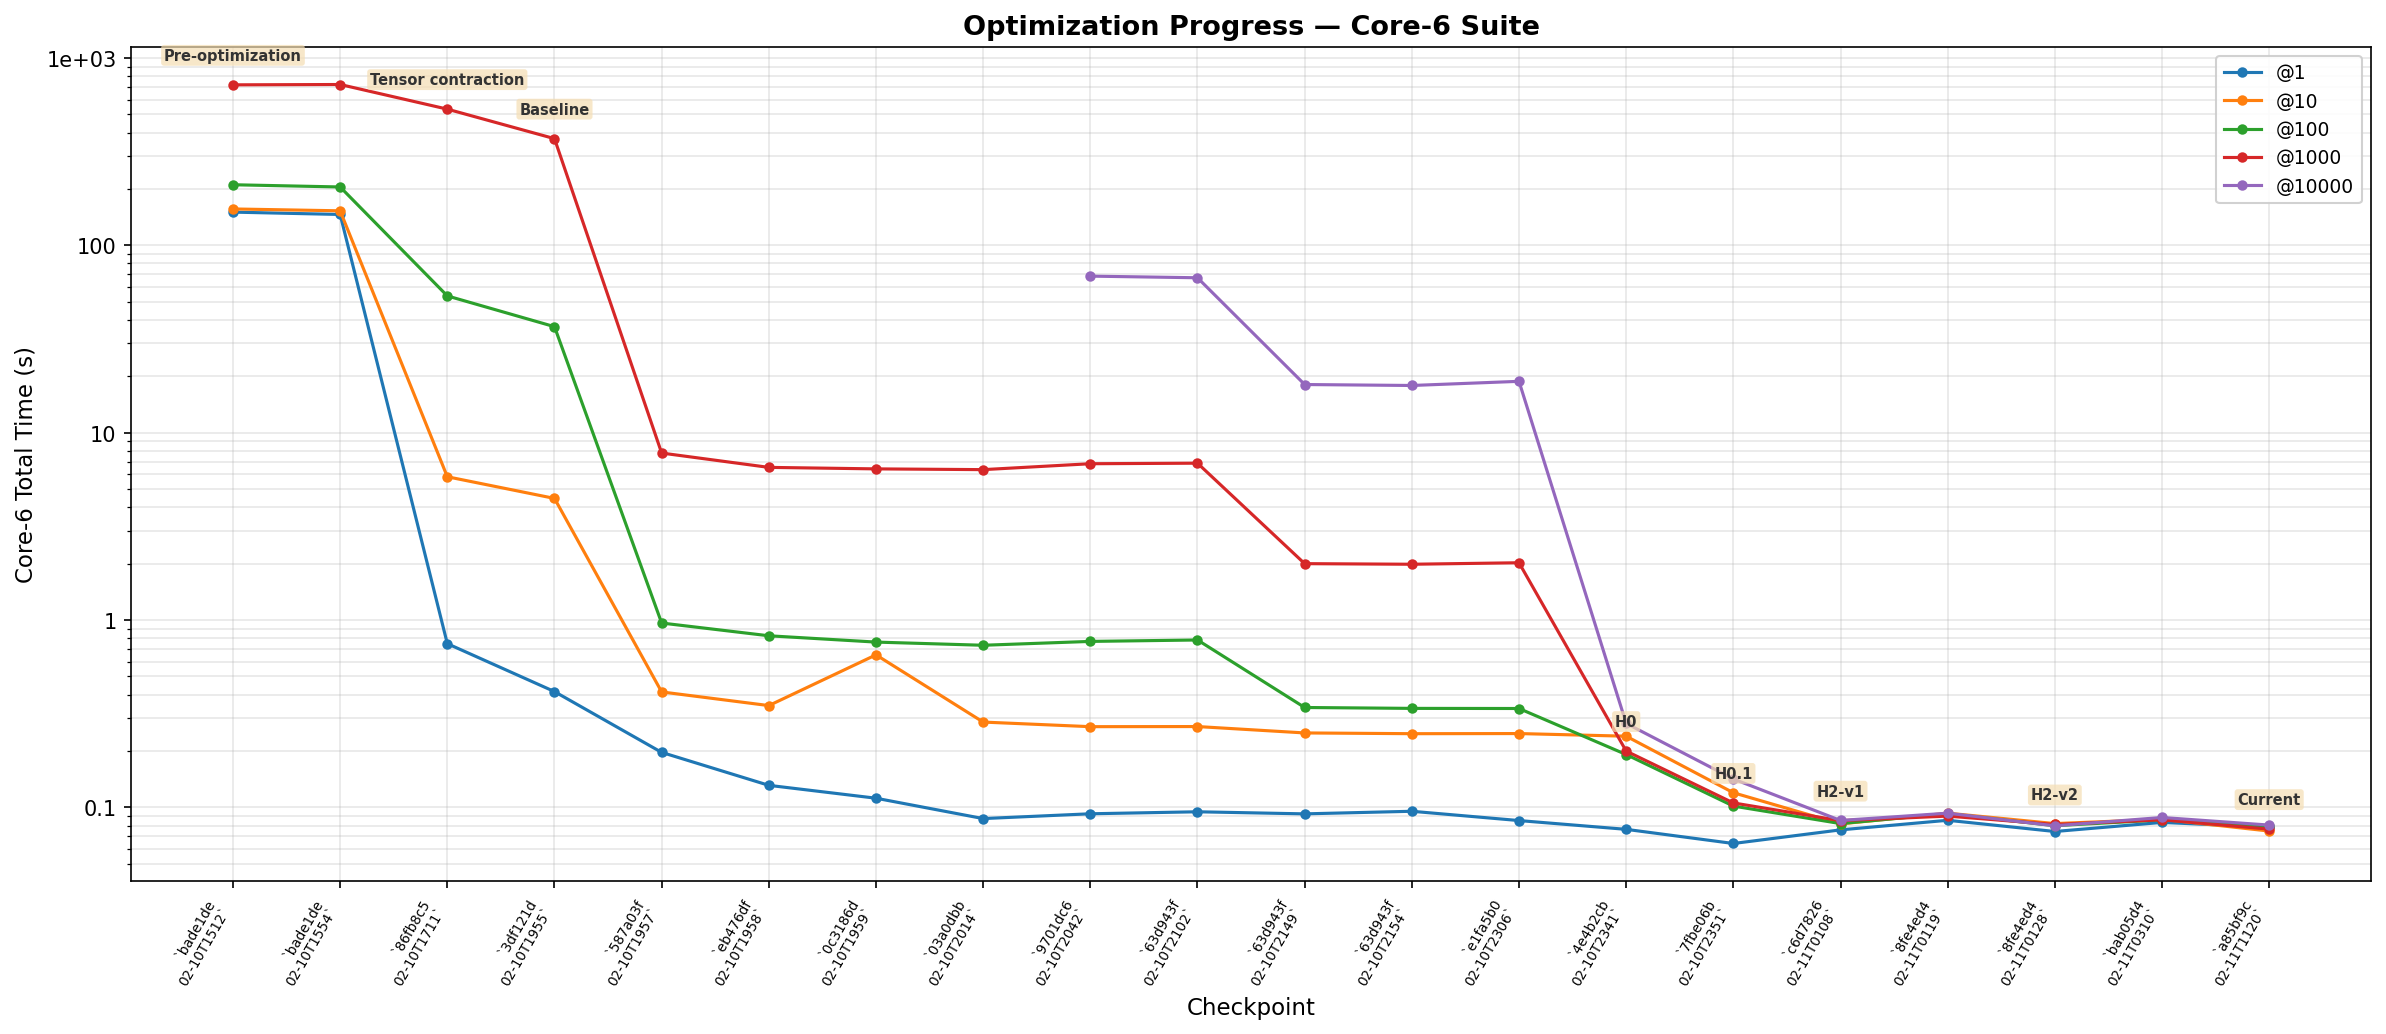
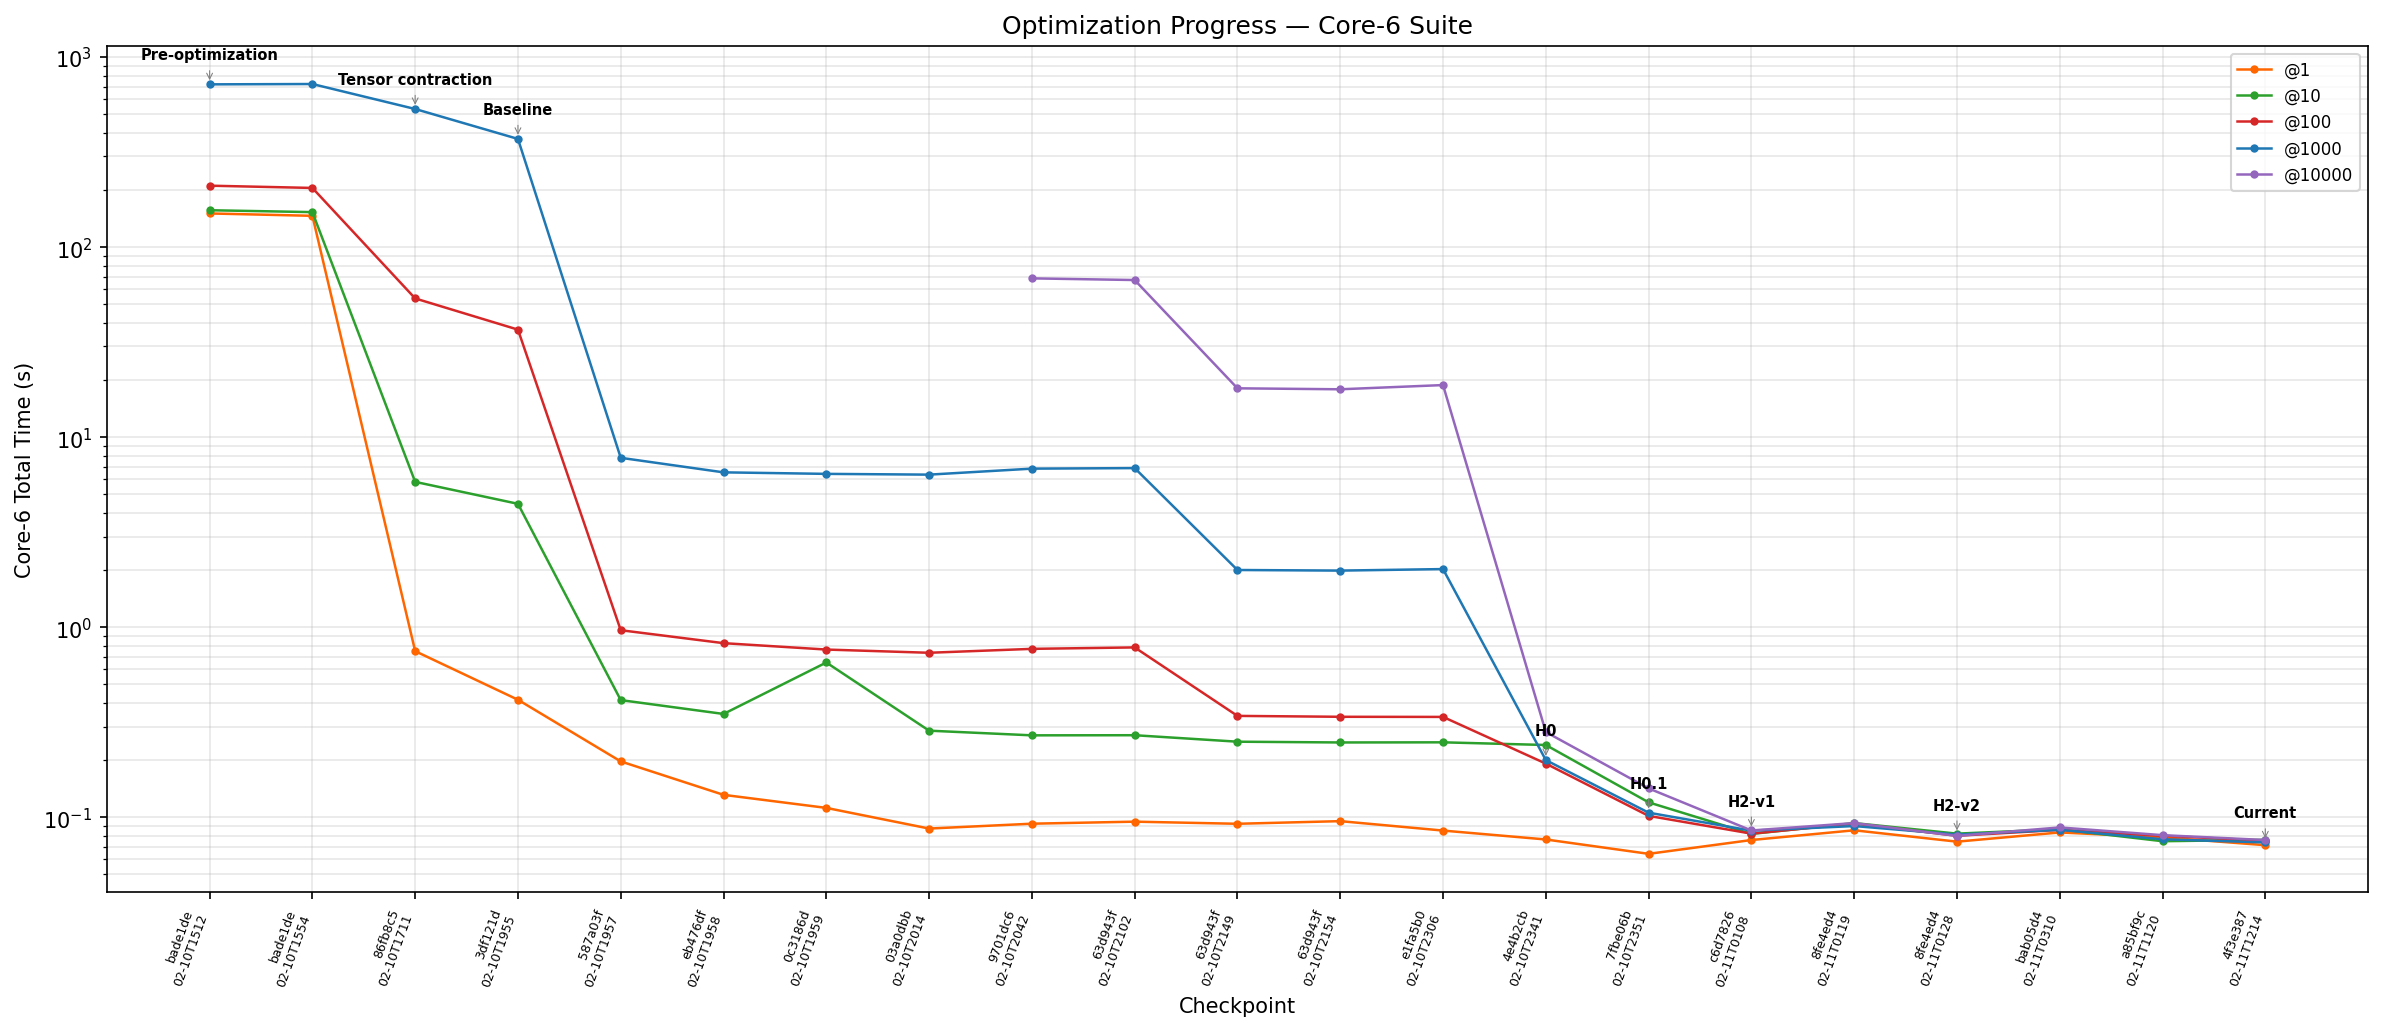
Record idx 20: stride-based dense gate paths with CPU scalar dispatch
Core-6 @1000: 0.077→0.074s (4%), @10000: 0.081→0.076s (6%).
Full static suite @10000: 0.92→0.76s (17%).
random_universal_14: 2.4x faster from eliminating MPS transfers.

diff --git a/docs/experiment-log.md b/docs/experiment-log.md
@@ -28,3 +28,4 @@ Machine: Apple M1 Max, 32 GB. Backend: PyTorch MPS.
 | F2 | (reverted) | Forced static circuits through branch engine (disabled terminal-sampling fast path). Regressed: median 1.54x slower across 18 static cases @10k. | — | Did not work |
 | 18 | `bab05d4` | Compiled edge/node dynamic graph executor. Unified static/dynamic into one graph format (static = zero-node graph). | 0.086s / 0.088s @10k | Worked (architecture) |
 | 19 | `a85bf9c` | Replaced permute/matmul dense gate path with `tensordot` contraction. Cleaner code, perf-neutral. `einsum` also tested — slower on MPS, crashes at 15q+. | 0.077s / 0.081s @10k | Worked (simplification) |
+| 20 | `4f3e387` | Stride-based slicing for 1q+2q dense gates with CPU scalar dispatch. Eliminates tensordot permutation copies (77% of CPU time) and per-gate MPS transfers (~450μs each). `random_universal_14` 2.4x faster. | 0.074s / 0.076s @10k | Worked (1.04x / 1.06x core-6; 2.4x on parameterized circuits) |

diff --git a/docs/progress-data.md b/docs/progress-data.md
@@ -43,7 +43,8 @@ Data source files are in `benchmarks/results/` and are listed below in plotting 
 | 16 | `2026-02-11T011947.jsonl` | `8fe4ed4` | `8fe4ed4\n02-11T0119` | 0.0854 | 0.0932 | 0.0926 | 0.0899 | 0.0932 |  |
 | 17 | `2026-02-11T012820.jsonl` | `8fe4ed4` | `8fe4ed4\n02-11T0128` | 0.0744 | 0.0820 | 0.0799 | 0.0811 | 0.0798 | H2-v2 |
 | 18 | `2026-02-11T031009.jsonl` | `bab05d4` | `bab05d4\n02-11T0310` | 0.0832 | 0.0865 | 0.0858 | 0.0859 | 0.0884 |  |
-| 19 | `2026-02-11T112001.jsonl` | `a85bf9c` | `a85bf9c\n02-11T1120` | 0.0784 | 0.0748 | 0.0799 | 0.0766 | 0.0805 | Current |
+| 19 | `2026-02-11T112001.jsonl` | `a85bf9c` | `a85bf9c\n02-11T1120` | 0.0784 | 0.0748 | 0.0799 | 0.0766 | 0.0805 |  |
+| 20 | `2026-02-11T121400.jsonl` | `4f3e387` | `4f3e387\n02-11T1214` | 0.0713 | 0.0761 | 0.0753 | 0.0737 | 0.0759 | Current |
 
 ## Notes
 
